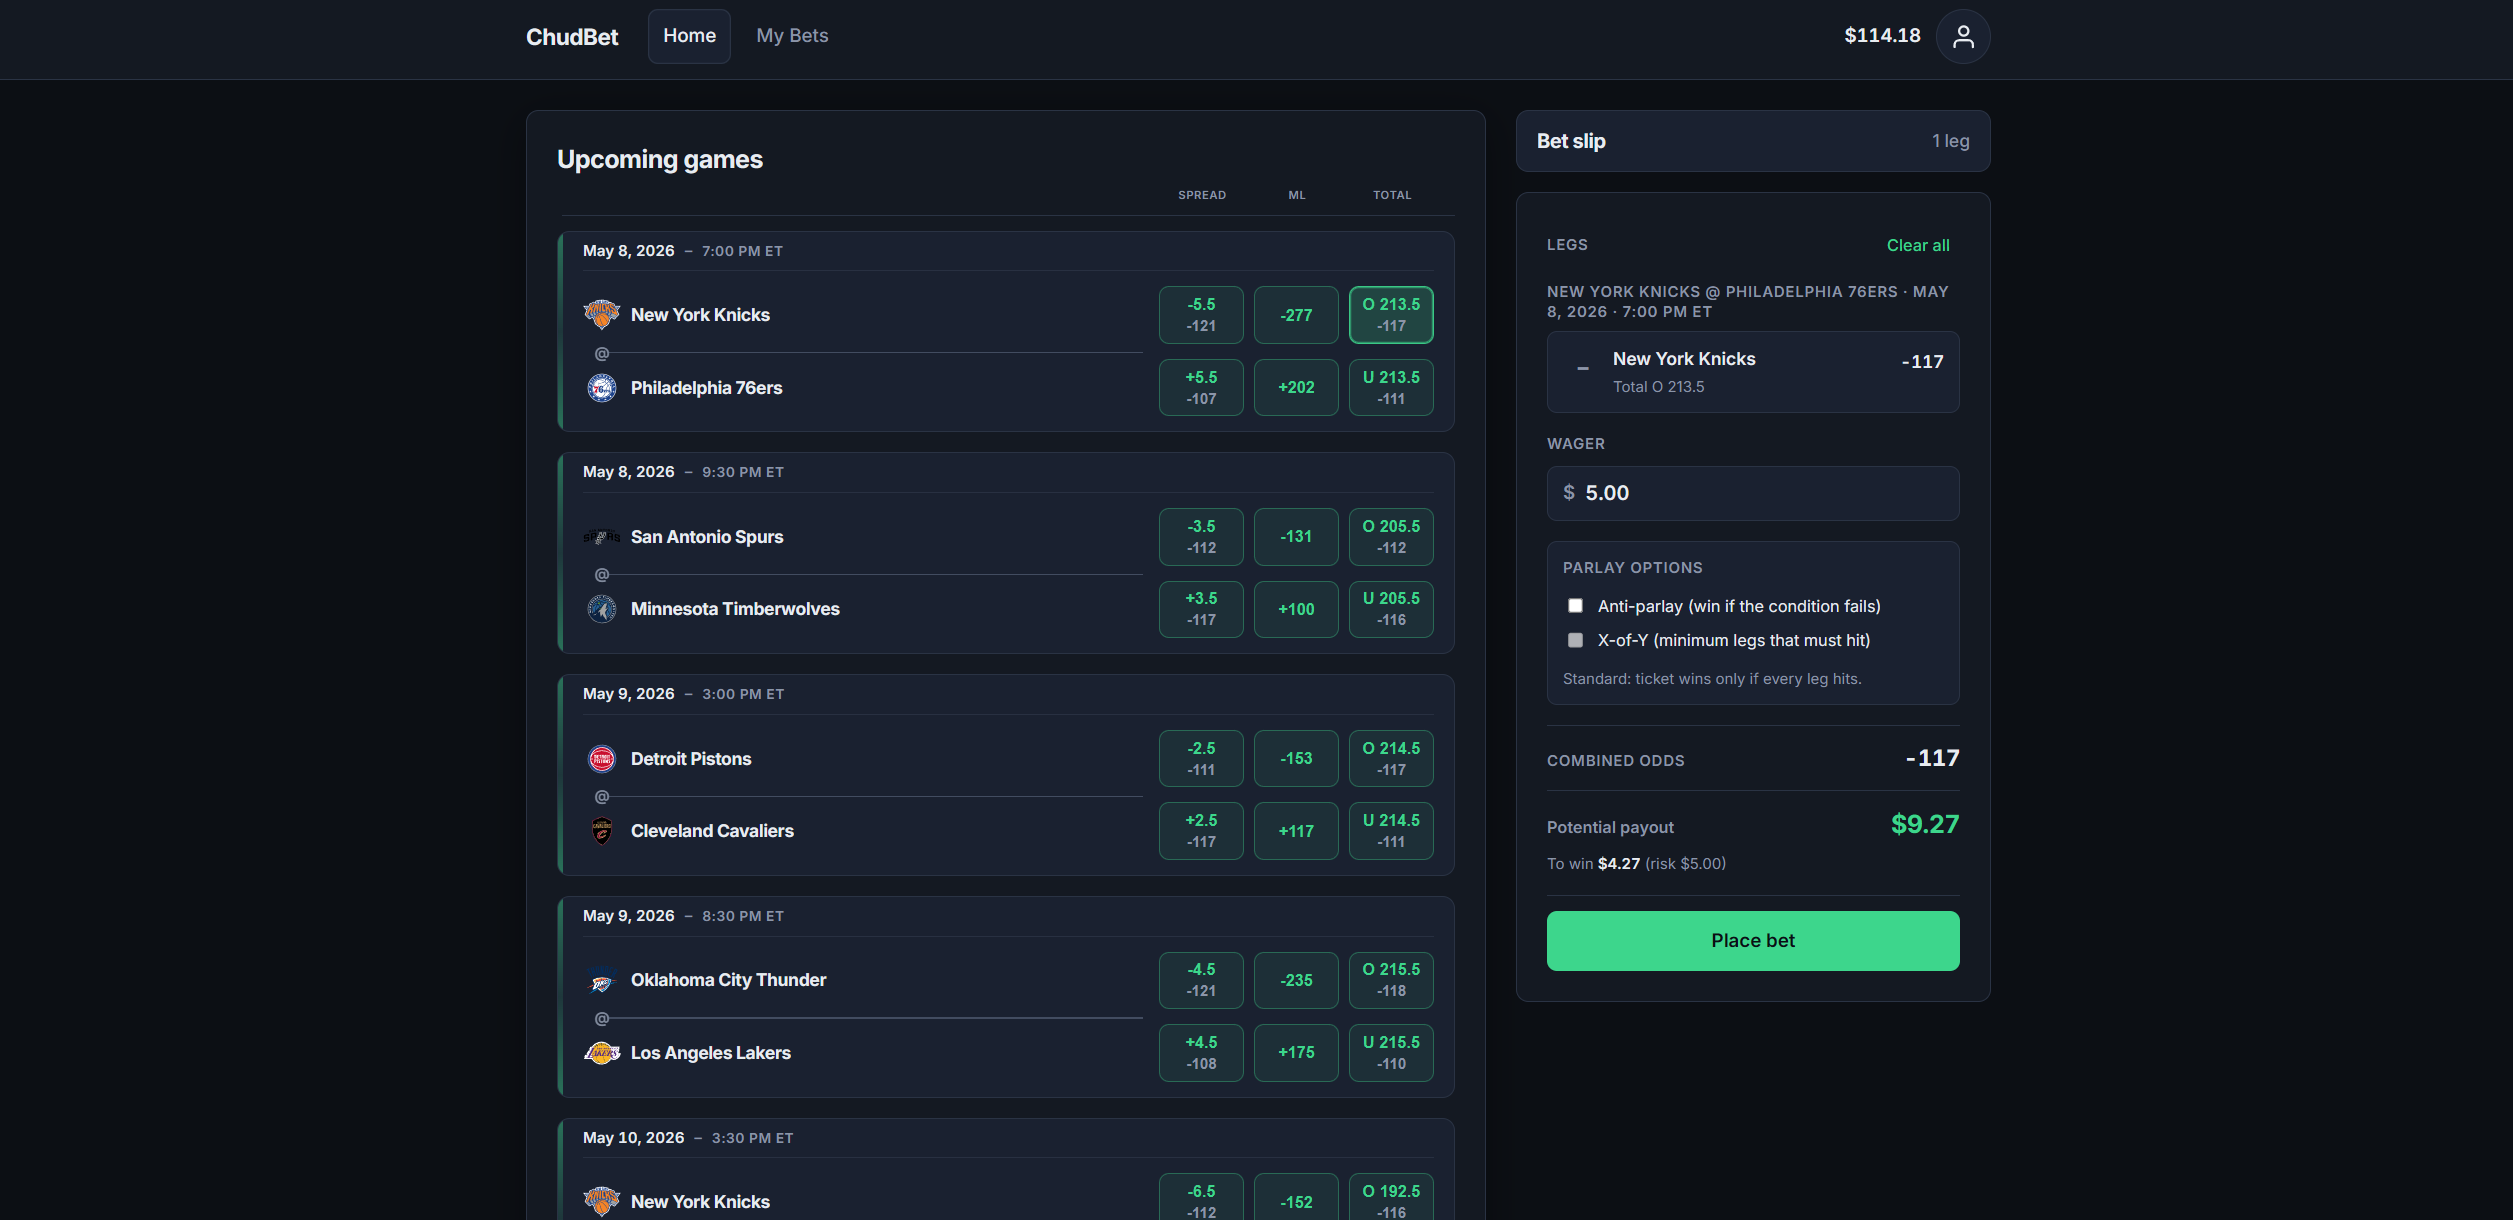
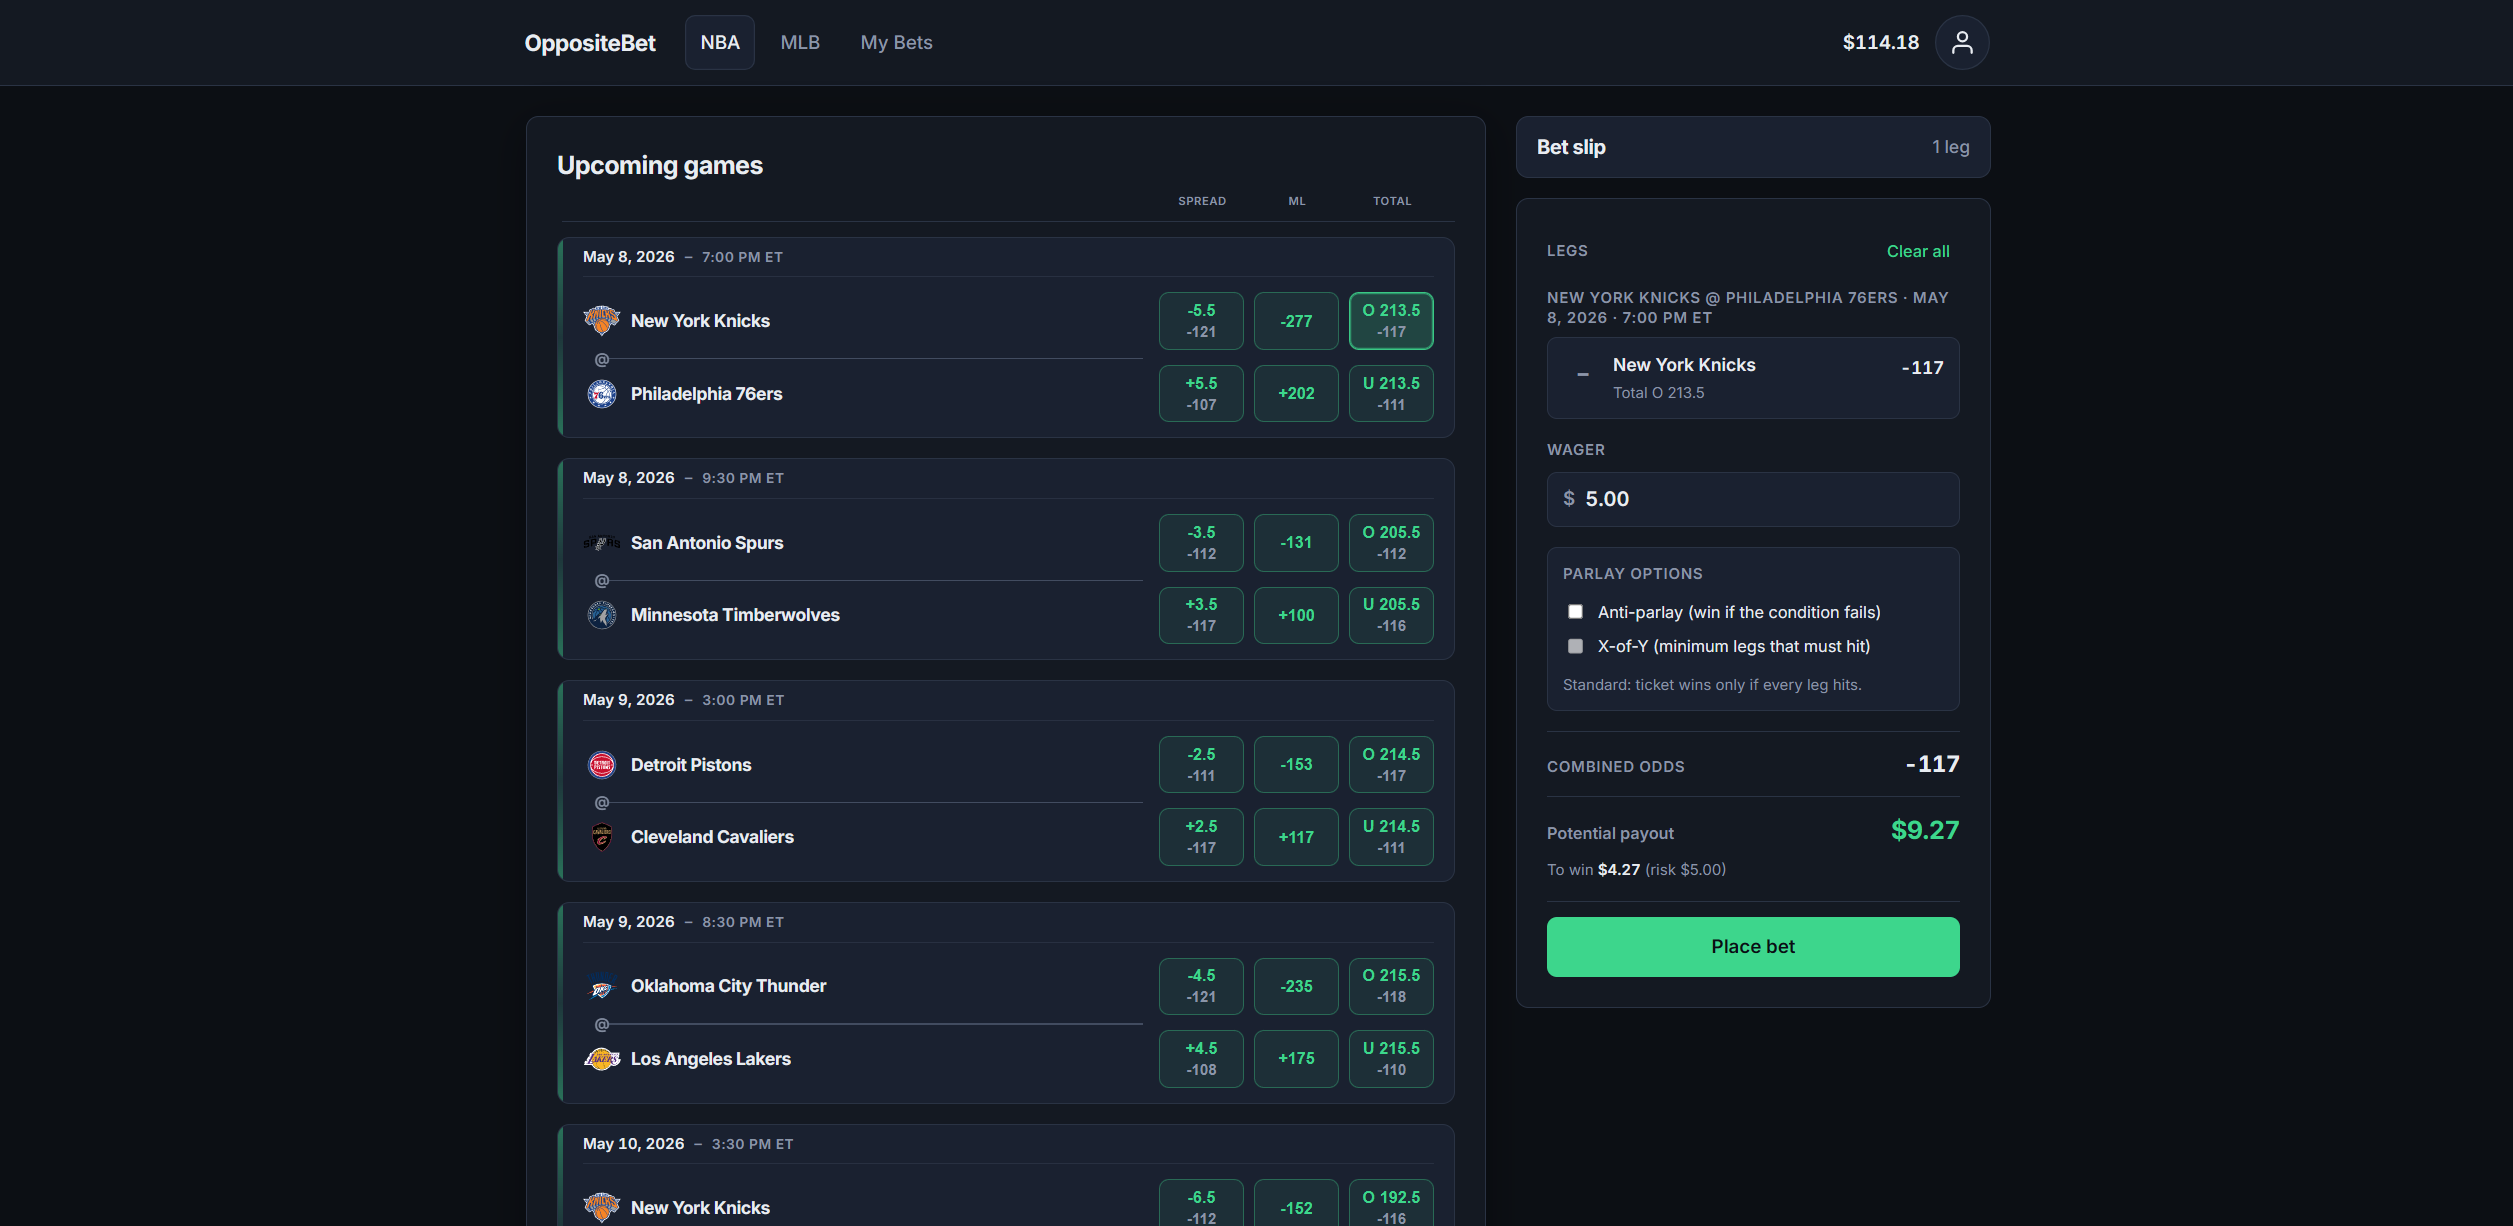
Name change

diff --git a/frontend/src/vite-env.d.ts b/frontend/src/vite-env.d.ts
@@ -1,7 +1,7 @@
 /// <reference types="vite/client" />
 
 interface ImportMetaEnv {
-  /** Base URL for the Chudbet API (no trailing slash). Local default: http://localhost:8000 */
+  /** Base URL for the OppositeBet API (no trailing slash). Local default: http://localhost:8000 */
   readonly VITE_API_URL?: string
   /** Wallet account id (`GET /accounts/{id}`). Match backend CHUDBET_DEMO_ACCOUNT_ID when seeded. */
   readonly VITE_ACCOUNT_ID?: string

diff --git a/frontend/index.html b/frontend/index.html
@@ -4,7 +4,11 @@
     <meta charset="UTF-8" />
     <link rel="icon" type="image/svg+xml" href="/favicon.svg" />
     <meta name="viewport" content="width=device-width, initial-scale=1.0" />
-    <title>ChudBet</title>
+    <meta
+      name="description"
+      content="OppositeBet is a live-data sportsbook simulator for anti-parlays and X-of-Y tickets."
+    />
+    <title>OppositeBet</title>
   </head>
   <body>
     <div id="root"></div>

diff --git a/frontend/src/api/client.ts b/frontend/src/api/client.ts
@@ -39,7 +39,7 @@ async function readBody(res: Response): Promise<unknown> {
 }
 
 /**
- * Typed JSON fetch against the Chudbet API. Throws {@link ApiError} on non-OK responses.
+ * Typed JSON fetch against the OppositeBet API. Throws {@link ApiError} on non-OK responses.
  */
 export async function apiRequest<T>(path: string, init?: RequestInit): Promise<T> {
   const url = joinUrl(getApiBaseUrl(), path)

diff --git a/frontend/src/layouts/AppLayout.tsx b/frontend/src/layouts/AppLayout.tsx
@@ -23,7 +23,7 @@ export function AppLayout() {
         <div className="app-header__inner">
           <div className="app-header__left">
             <Link to="/" className="app-brand">
-              ChudBet
+              OppositeBet
             </Link>
             <nav className="app-nav" aria-label="Main">
               <NavLink

diff --git a/backend/app/main.py b/backend/app/main.py
@@ -26,7 +26,7 @@ async def lifespan(app: FastAPI):
     yield
 
 
-app = FastAPI(title="Chudbet API", lifespan=lifespan)
+app = FastAPI(title="OppositeBet API", lifespan=lifespan)
 
 app.add_middleware(
     CORSMiddleware,

diff --git a/docs/deploy-ec2-vercel.md b/docs/deploy-ec2-vercel.md
@@ -1,6 +1,6 @@
-# Chudbet Deployment Runbook (EC2 + Docker Compose + Vercel)
+# OppositeBet Deployment Runbook (EC2 + Docker Compose + Vercel)
 
-This runbook deploys the current application with always-on services at low cost:
+This runbook deploys the current application with always-on services at low cost. Legacy internal infrastructure identifiers such as `/opt/chudbet`, `CHUDBET_*`, and `chudbet-backend` are intentionally retained to preserve production state and rollback compatibility:
 - EC2 hosts `postgres`, `backend`, `worker`, `mlb-worker`, and `caddy`.
 - Vercel hosts the frontend.
 
@@ -165,7 +165,7 @@ One-time AWS setup:
        "Action": "sts:AssumeRoleWithWebIdentity",
        "Condition": {
          "StringEquals": { "token.actions.githubusercontent.com:aud": "sts.amazonaws.com" },
-         "StringLike": { "token.actions.githubusercontent.com:sub": "repo:vincent0955/chudbet:ref:refs/heads/main" }
+         "StringLike": { "token.actions.githubusercontent.com:sub": "repo:vincent0955/oppositebet:ref:refs/heads/main" }
        }
      }]
    }

diff --git a/README.md b/README.md
@@ -1,6 +1,6 @@
-# ChudBet
+# OppositeBet
 
-ChudBet is a sportsbook that allows you to bet on your parlays to NOT hit or bet on only a certain amount of legs hitting.
+OppositeBet is a sportsbook that allows you to bet on your parlays to NOT hit or bet on only a certain amount of legs hitting.
 
 ## How it works
 
